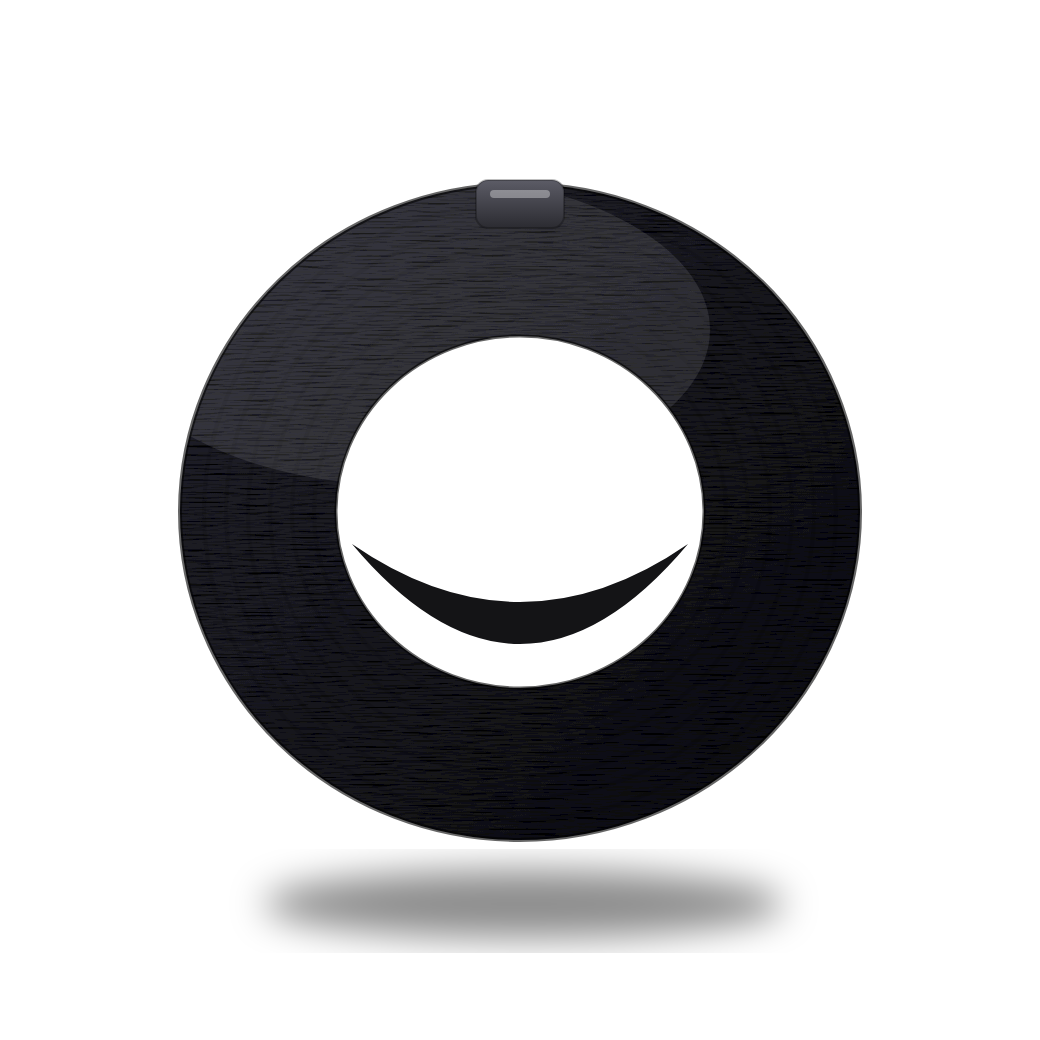
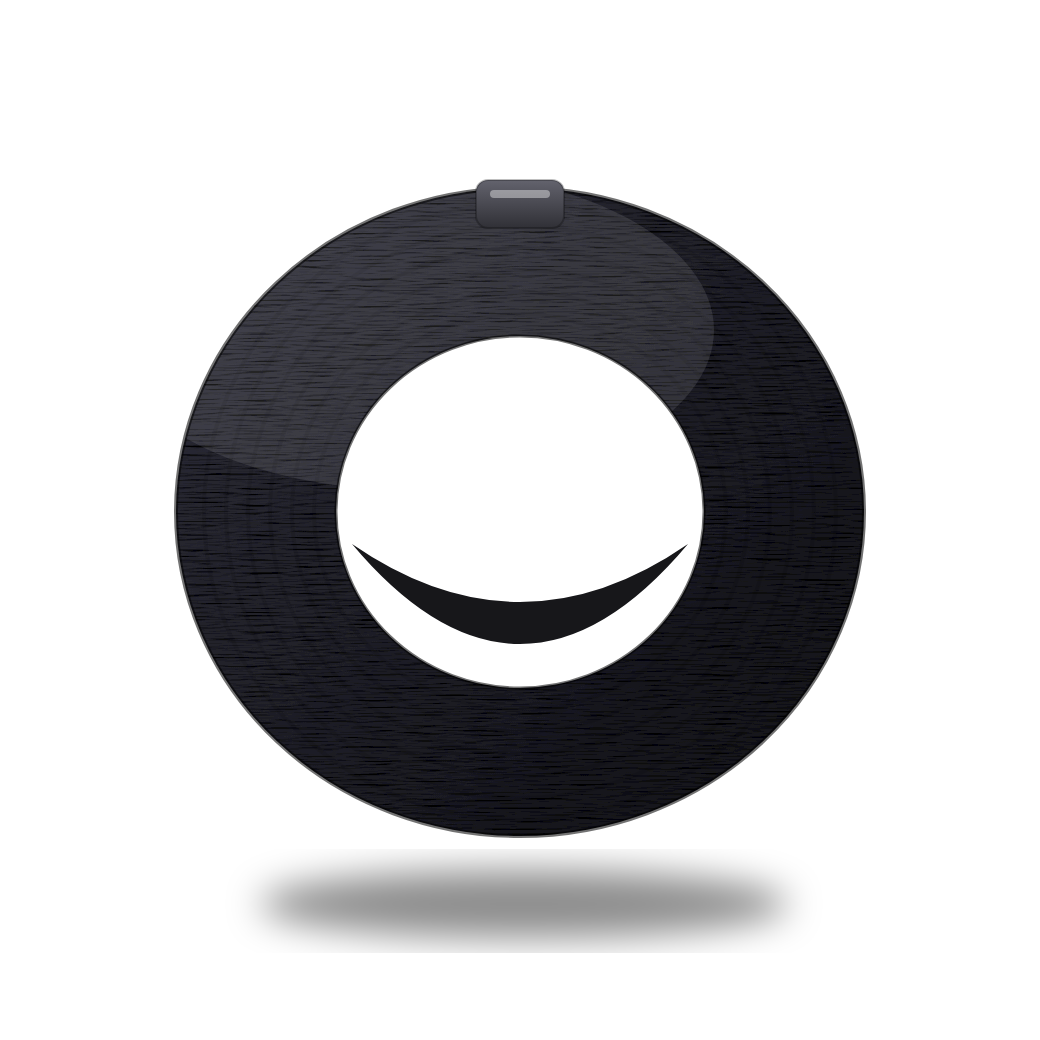
Pink colourway, set WhatsApp number, add order-email system
- Rename the second colourway from Cream to Pink (swatch, images, form, copy)
- Re-render both band images (lighter black so weave shows; new pink)
- Set the WhatsApp number to the provided 0321 0077442 (923210077442)
- Add an order-email system via Netlify Forms: a hidden 'preorder' form plus an
  AJAX POST on submit, so each pre-order emails the owner and lists in Netlify;
  Formspree remains as an alternative
- README: order-email setup and how to edit after publishing

Claude-Session: https://claude.ai/code/session_016PYtBGksEsv6PuuVT3mhrr

diff --git a/index.html b/index.html
@@ -626,26 +626,26 @@ body.pin-off .inside .stage{margin-bottom:0}
     <div class="sec-head reveal" style="text-align:center;margin-inline:auto">
       <span class="eyebrow">Now launching · two colours</span>
       <h2 style="color:#fff">Meet the Strive Power</h2>
-      <p style="color:#9fb3cf">A screenless woven-loop band that does it all — in Black or Cream, paired with the free companion app.</p>
+      <p style="color:#9fb3cf">A screenless woven-loop band that does it all — in Black or Pink, paired with the free companion app.</p>
     </div>
 
     <div class="showcase reveal">
       <!-- ===== PRODUCT PHOTO SLOTS ===================================================
            TWO colour variants. To use real photos, save them next to index.html as
-           "band-black.jpg" and "band-cream.jpg" (square ~1000×1000 on a dark background
+           "band-black.jpg" and "band-pink.jpg" (square ~1000×1000 on a dark background
            looks best), then in each ".variant" below UNCOMMENT the <img> line and DELETE
            the <svg> illustration under it. Drop-in illustrations show until you add photos.
       ============================================================================ -->
       <div class="showcase-media" id="media">
-        <!-- These are real image files (band-black.png / band-cream.png). To use your own
+        <!-- These are real image files (band-black.png / band-pink.png). To use your own
              product photos later, just replace those two files (keep the same names). -->
         <div class="variant on" data-variant="Black">
           <img src="band-black.png" alt="Strive Power screenless woven-loop band in Black" width="520" height="520" />
         </div>
-        <div class="variant" data-variant="Cream">
-          <img src="band-cream.png" alt="Strive Power screenless woven-loop band in Cream" width="520" height="520" />
+        <div class="variant" data-variant="Pink">
+          <img src="band-pink.png" alt="Strive Power screenless woven-loop band in Pink" width="520" height="520" />
         </div>
-        <span class="media-note">Strive Power — Black &amp; Cream</span>
+        <span class="media-note">Strive Power — Black &amp; Pink</span>
       </div>
 
       <div class="showcase-body">
@@ -655,7 +655,7 @@ body.pin-off .inside .stage{margin-bottom:0}
         <div class="price">PKR 14,000 <small>· free delivery</small></div>
         <div class="swatches" role="group" aria-label="Choose colour">
           <button type="button" class="swatch on" data-color="Black" style="--sw:#1a1a1a" aria-pressed="true"><span></span>Black</button>
-          <button type="button" class="swatch" data-color="Cream" style="--sw:#e9e1d4" aria-pressed="false"><span></span>Cream</button>
+          <button type="button" class="swatch" data-color="Pink" style="--sw:#e79ab3" aria-pressed="false"><span></span>Pink</button>
         </div>
         <ul class="plist">
           <li><svg width="18" height="18" viewBox="0 0 24 24" fill="none" stroke="#22D3EE" stroke-width="2.5" stroke-linecap="round" stroke-linejoin="round"><path d="M20 6 9 17l-5-5"/></svg> 24/7 heart rate</li>
@@ -738,6 +738,14 @@ body.pin-off .inside .stage{margin-bottom:0}
   </div>
 </footer>
 
+<!-- Hidden form so Netlify detects "preorder" and can email you each order.
+     Works automatically once the site is hosted on Netlify (see README). -->
+<form name="preorder" data-netlify="true" netlify-honeypot="bot-field" hidden>
+  <input type="text" name="name" /><input type="tel" name="phone" /><input type="text" name="city" />
+  <input type="text" name="model" /><input type="text" name="color" /><input type="text" name="qty" />
+  <input type="text" name="payment" /><input type="text" name="bot-field" />
+</form>
+
 <!-- ===================== PRE-ORDER MODAL ===================== -->
 <div class="modal" id="modal" role="dialog" aria-modal="true" aria-labelledby="modalTitle" aria-hidden="true">
   <div class="backdrop" data-close-modal></div>
@@ -766,7 +774,7 @@ body.pin-off .inside .stage{margin-bottom:0}
           <label for="color">Colour</label>
           <select id="color" name="color">
             <option value="Black">Black</option>
-            <option value="Cream">Cream</option>
+            <option value="Pink">Pink</option>
           </select>
         </div>
       </div>
@@ -801,7 +809,7 @@ body.pin-off .inside .stage{margin-bottom:0}
 /* >>> SET THIS: your WhatsApp business number in international format,
        digits only, no "+", no spaces. Example for Pakistan 0300 1234567
        => country code 92 + 3001234567 = "923001234567". <<< */
-const PHONE = "923000000000"; // TODO: replace with the real number
+const PHONE = "923210077442"; // TODO: replace with the real number
 
 /* OPTIONAL: also POST each order to a Formspree (or similar) endpoint as a backup.
    Leave as "" to keep it DISABLED (default). To enable, paste your endpoint, e.g.
@@ -970,7 +978,7 @@ document.querySelectorAll('[data-close-modal]').forEach(el=>{
   el.addEventListener('click', closeModal);
 });
 
-/* ---------- Colour swatch selector (Black / Cream) ---------- */
+/* ---------- Colour swatch selector (Black / Pink) ---------- */
 let selectedColor = 'Black';
 const variants = document.querySelectorAll('.variant');
 document.querySelectorAll('.swatch').forEach(sw=>{
@@ -1025,7 +1033,15 @@ form.addEventListener('submit', function(e){
   const text = encodeURIComponent(lines.join("\n"));
   const waURL = "https://wa.me/" + PHONE + "?text=" + text;
 
-  /* OPTIONAL backup POST to Formspree — runs only if endpoint is set */
+  /* EMAIL SYSTEM — send the order to Netlify Forms so you get an email + a
+     submissions list in the Netlify dashboard. Runs only on the live Netlify
+     site (harmless locally). Turn on the email in Netlify: Forms → Notifications. */
+  try {
+    const enc = new URLSearchParams({ "form-name": "preorder", ...order }).toString();
+    fetch("/", { method: "POST", headers: {"Content-Type":"application/x-www-form-urlencoded"}, body: enc }).catch(()=>{});
+  } catch(_){}
+
+  /* OPTIONAL alternative: also POST to Formspree if an endpoint is set (works on any host) */
   if (FORMSPREE_ENDPOINT){
     try {
       fetch(FORMSPREE_ENDPOINT, {

diff --git a/README.md b/README.md
@@ -8,7 +8,7 @@ A single, dependency-free `index.html` for the Strive Wearables pre-order site
 Open `index.html`, find this near the top of the `<script>` block:
 
 ```js
-const PHONE = "923000000000"; // TODO: replace with the real number
+const PHONE = "923210077442"; // TODO: replace with the real number
 ```
 
 Use the international format, **digits only — no `+`, no spaces**.
@@ -25,15 +25,40 @@ The hero/footer/pre-order buttons and the WhatsApp handoff all use this one valu
 The product section uses two **image files** that already ship with the site:
 
 - `band-black.png`
-- `band-cream.png`
+- `band-pink.png`
 
 To use your **own** photos, just replace those two files — **keep the same file names** and it works instantly (a square ~1000×1000 image on a dark background looks best). No HTML edits needed.
 
-The Black/Cream switch on the page (and in the pre-order form) toggles between the two images automatically.
+The Black/Pink switch on the page (and in the pre-order form) toggles between the two images automatically.
 
 > Note: only **your own** product photos should go here. Don't use other brands' marketing images.
 
-## 3. Other placeholders to replace
+## 3. Get an email for every order (Netlify Forms)
+
+The site sends each pre-order to **Netlify Forms**, so you get an email + a list of
+orders in your Netlify dashboard. To switch the emails on (one time):
+
+1. Deploy the site on Netlify (see below).
+2. In Netlify → your site → **Forms** — you'll see a form called **`preorder`**.
+3. Click **Form notifications → Add notification → Email notification**, enter your
+   email, save.
+
+Now every submitted pre-order emails you (name, WhatsApp, city, model, colour,
+quantity, payment) **and** still opens WhatsApp for the customer. Orders are also
+listed under **Forms → preorder** in the dashboard.
+
+> Not on Netlify? You can instead use Formspree: set `FORMSPREE_ENDPOINT` near the
+> top of the script to your Formspree URL and it will email you too.
+
+## 4. Editing after you publish
+
+- **If you deployed by dragging the file to Netlify Drop:** edit `index.html`, then
+  drag the folder onto Netlify again — it updates the same site.
+- **If you connected Netlify to GitHub (recommended):** just change the file in
+  GitHub (or ask me to) — Netlify redeploys automatically in ~30 seconds.
+- **Shopify:** edit anytime in the Shopify editor; changes save live.
+
+## 5. Other placeholders to replace
 
 - **Instagram handle** — in the footer: `https://instagram.com/your_handle_here`.
 - **OG image** — the `og:image` meta points to a placeholder URL; host a 1200×630 image and update it for nice social previews.
